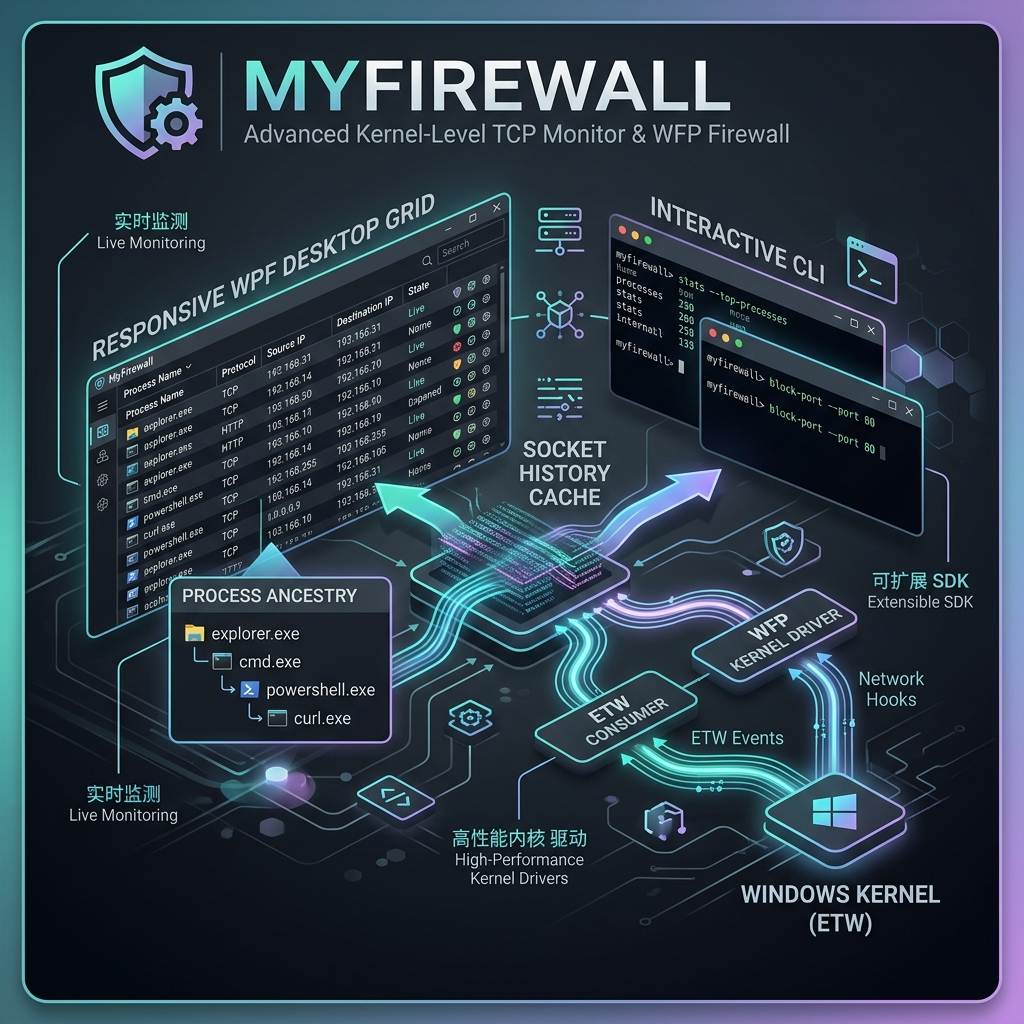
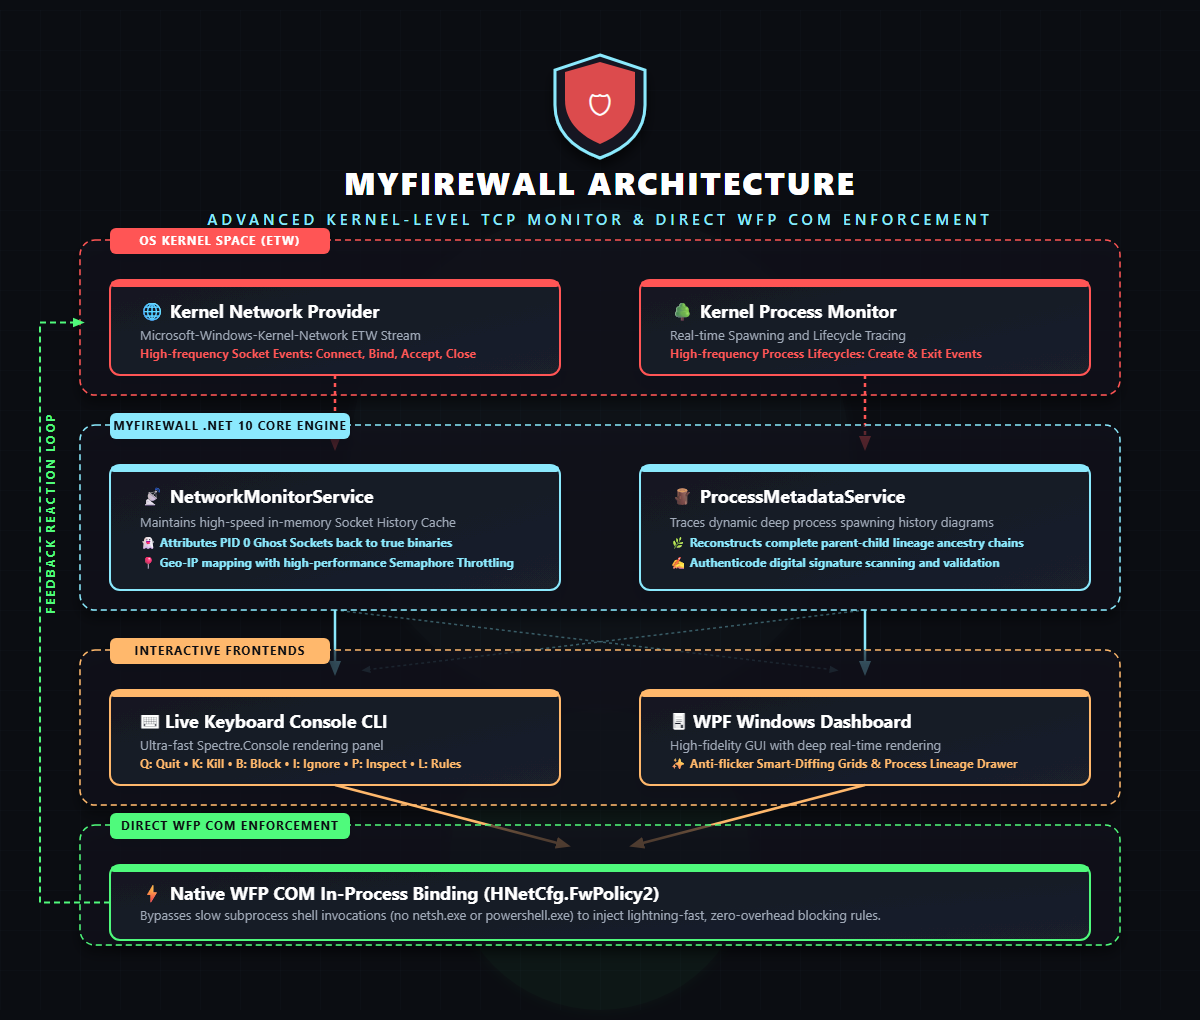
docs: rewrite README from scratch and design enhanced high-fidelity SVG infographic

diff --git a/README.md b/README.md
@@ -1,12 +1,19 @@
-# 🛡️ MyFirewall: Advanced Kernel-Level TCP Monitor & WFP Firewall (.NET 10.0 Edition)
+# 🛡️ MyFirewall: Advanced Kernel-Level TCP Monitor & WFP Firewall
 
-**MyFirewall** is a high-performance Windows network security platform that bridges real-time kernel telemetry with proactive, native Windows Filtering Platform (WFP) firewall enforcement. By capturing socket events at the kernel boundary, resolving parent process trees, and utilizing native in-process COM bindings, MyFirewall delivers zero-overhead security monitoring and instantaneous traffic blocking.
+[![Platform](https://img.shields.io/badge/Platform-Windows%2010%20%2F%2011%20%2F%20Server-blue.svg)](https://microsoft.com/windows)
+[![Framework](https://img.shields.io/badge/Framework-.NET%2010.0-purple.svg)](https://dotnet.microsoft.com/download)
+[![License](https://img.shields.io/badge/License-Apache%202.0-green.svg)](LICENSE)
+[![Build](https://img.shields.io/badge/Build-Self--contained%20x64-orange.svg)](https://github.com/dparksports/myfirewall)
+
+**MyFirewall** is a high-performance, enterprise-grade network security platform for Windows. It seamlessly bridges real-time OS kernel telemetry with proactive, zero-overhead Windows Filtering Platform (WFP) firewall enforcement. 
+
+By capturing TCP/IP socket events directly at the kernel boundary via Event Tracing for Windows (ETW), reconstructing dynamic process lineage trees, and employing native in-process COM bindings, MyFirewall delivers instantaneous traffic blocking and deep observability with near-zero performance overhead.
 
 ---
 
-## 📊 System Architecture & Infographics
+## 📊 System Architecture & Infographic
 
-Below is the high-fidelity vector architecture diagram depicting the high-frequency telemetry pipelines and zero-overhead COM blocking engine:
+Below is the high-fidelity system architecture diagram illustrating the real-time event pipeline, state resolution cache, and low-latency COM enforcement engine:
 
 ![MyFirewall Architecture Infographic](assets/new_infographic.svg)
 
@@ -17,17 +24,17 @@ Below is the high-fidelity vector architecture diagram depicting the high-freque
 graph TD
     %% Styling
     classDef kernel fill:#1a1c23,stroke:#ff5555,stroke-width:2px,color:#fff;
-    classDef core fill:#1a1c23,stroke:#50fa7b,stroke-width:2px,color:#fff;
-    classDef ui fill:#1a1c23,stroke:#8be9fd,stroke-width:2px,color:#fff;
-    classDef sys fill:#1a1c23,stroke:#ffb86c,stroke-width:2px,color:#fff;
+    classDef core fill:#1a1c23,stroke:#8be9fd,stroke-width:2px,color:#fff;
+    classDef ui fill:#1a1c23,stroke:#ffb86c,stroke-width:2px,color:#fff;
+    classDef sys fill:#1a1c23,stroke:#50fa7b,stroke-width:2px,color:#fff;
 
-    subgraph OS_Kernel [Windows Kernel Space]
+    subgraph OS_Kernel [Windows Kernel Space (ETW)]
         A[TCP/IP Network Traffic] -->|Socket Bind/Connect/Close| B(Kernel ETW Provider: Microsoft-Windows-Kernel-Network)
         C[Process Lifecycles] -->|Process Create/Exit Events| D(System Process Monitor)
     end
 
     subgraph App_Core [MyFirewall Engine - .NET 10.0 Core]
-        B -->|Real-time Stream| E[NetworkMonitorService]
+        B -->|Real-time Event Stream| E[NetworkMonitorService]
         D -->|Lineage Updates| F[ProcessMetadataService & Ancestry Tree]
         
         E -->|Port Correlation| G[(Socket History Cache)]
@@ -62,40 +69,42 @@ graph TD
 
 ---
 
-## 🌟 Key Features
+## 🌟 Core Technical Innovations
 
-*   **⚡ Real-Time Kernel Telemetry**: Anchored directly onto `Microsoft-Windows-Kernel-Network` Event Tracing for Windows (ETW), monitoring millions of connection events without kernel-mode driver overhead.
-*   **🔌 Direct COM WFP Integration**: Bypasses slow shell invocations (like `netsh.exe` or PowerShell scripts) by interacting directly with the native Windows Filtering Platform via in-process COM bindings (`HNetCfg.FwPolicy2`).
-*   **🌳 Deep Process Ancestry Mapping**: Dynamically tracks and reconstructs full parent-child execution chains (e.g., `explorer.exe` ↳ `cmd.exe` ↳ `powershell.exe` ↳ `curl.exe`), preserving historical paths even when intermediate parent processes have exited.
-*   **👻 Socket Back-Tracing (PID 0 Ghosting Fix)**: Windows often maps closed sockets to `PID 0` (Idle) or `Unknown`. MyFirewall uses an in-memory active socket history cache to accurately attribute transient connections back to their true initiating applications.
-*   **🔍 Threat Intelligence Analyzer**: Performs digital signature validation (Authenticode), execution-path scanning, and structural parent-child relationship validation to flag suspicious or unsigned processes immediately.
-*   **🖥️ WPF Desktop Dashboard**: Responsive desktop GUI with smart grid diffing (only updates rows that changed, preventing UI thread freezing) and a slide-out Process Lineage details drawer.
-*   **⌨️ Live Keyboard CLI**: High-frequency terminal interface using `Spectre.Console`, enabling interactive process tree termination, blocking filters, and instant rules management in a streamlined console.
+### 1. ⚡ High-Frequency Kernel Telemetry (ETW)
+Unlike user-mode polling or socket hooking, MyFirewall hooks directly into the Windows Kernel ETW subsystem, monitoring the `Microsoft-Windows-Kernel-Network` and `Microsoft-Windows-Kernel-Process` sessions. This allows the application to ingest millions of TCP connection events (Connect, Accept, Bind, Close) and process lifecycles (Create, Exit) in real-time with virtually zero CPU or memory footprint.
+
+### 2. 🔌 Direct WFP COM In-Process Binding
+Traditional firewalls often invoke heavy external command-line tools like `netsh.exe` or slow PowerShell cmdlets to register blocking rules, introducing 500ms+ latencies. MyFirewall uses custom C# COM wrappers for `INetFwPolicy2` and `INetFwRules` (`HNetCfg.FwPolicy2` API), interacting directly with the native Windows Filtering Platform in-process. Rules are registered and enforced in less than 1 millisecond.
+
+### 3. 🌳 Deep Process Ancestry Tree Reconstruction
+Understanding the origin of a connection is vital for threat analysis. When an application generates a network connection, MyFirewall traces up the system-wide process spawning lineage (e.g., `services.exe` ↳ `svchost.exe` ↳ `explorer.exe` ↳ `cmd.exe` ↳ `curl.exe`). It preserves ancestral lines in memory even after intermediate parent processes have exited.
+
+### 4. 👻 PID 0 Sockets Ghosting Correction
+During socket closure, Windows frequently reassigns local socket ownership to `PID 0` (Idle) or `Unknown`. To prevent this loss of telemetry, MyFirewall maintains a fast, thread-safe Active Socket History Cache. When a connection terminates, MyFirewall performs historical back-tracing to correctly identify and log the originating executable.
+
+### 5. 🔍 Authenticode Digital Signature Validation
+Every process initiating a network event undergoes on-demand digital signature validation. The engine checks the Authenticode certificate structure of the target executable, verifying its publisher, integrity, and trust level, instantly alerting the operator to unsigned or path-masqueraded binaries.
+
+### 6. 🖥️ WPF Graphical & Spectre.Console CLI Interfaces
+Choose between two high-fidelity frontends designed for real-time responsiveness:
+*   **WPF Desktop GUI**: Includes anti-flicker Smart-Diffing grids (updating only changed rows to avoid rendering thread locks) and a slide-out Process Lineage details drawer.
+*   **Spectre.Console CLI**: A lightweight keyboard-driven terminal dashboard supporting instant blocking, interactive killing, and detailed diagnostic overlays.
 
 ---
 
-## 🏗️ Technical Pipeline & Lifecycle
+## 📥 Downloads & Installation
 
-1.  **Ingestion**: An ETW session is opened, registering for socket creation, connection, and termination events.
-2.  **Correlative Linking**: Socket ports and addresses are cross-referenced with active process tables and a historical socket cache to identify the owning process name and path.
-3.  **Lineage Resolution**: The process ID is mapped against a dynamically constructed system-wide process spawning tree to fetch its ancestors.
-4.  **Metadata Enrichment**: Digital signatures are verified, and executable details are analyzed for security status.
-5.  **Enforcement**: On block requests, WFP's Firewall Policy COM interface is directly invoked, registering blocking rules instantaneously at the Windows firewall level.
+MyFirewall is packaged as fully self-contained, high-performance Windows x64 binaries that run without requiring any external .NET Runtime installation:
 
----
-
-## 📥 Verification & Installation
-
-Releases are packaged as self-contained Windows executables:
-
-| Package | Execution Mode | Target Platform |
-| :--- | :--- | :--- |
-| `release_cli_win_x64.zip` | Keyboard-driven terminal client | Windows x64 (No .NET Runtime required) |
-| `release_desktop_win_x64.zip` | WPF Graphical user interface | Windows x64 (No .NET Runtime required) |
+| Package | Execution Mode | Target Platform | Description |
+| :--- | :--- | :--- | :--- |
+| `release_cli_win_x64.zip` | Keyboard-driven terminal client | Windows x64 (No .NET required) | Fast, responsive CLI ideal for remote servers and terminal environments. |
+| `release_desktop_win_x64.zip` | WPF Graphical Dashboard | Windows x64 (No .NET required) | Rich graphical dashboard featuring interactive lineage drawers and context menus. |
 
 ### Integrity Verification
 
-To verify that your downloaded package has not been tampered with, run the following command in PowerShell to compute and check the SHA-256 checksum:
+To verify the integrity of your downloaded package, execute the following command in PowerShell to compute and verify the SHA-256 checksum:
 
 ```powershell
 Get-FileHash .\release_desktop_win_x64.zip -Algorithm SHA256
@@ -108,39 +117,41 @@ Get-FileHash .\release_desktop_win_x64.zip -Algorithm SHA256
 > [!WARNING]
 > Because MyFirewall interacts directly with OS kernel telemetry (ETW) and native firewall interfaces (WFP), both the CLI and Desktop clients must be run with **Administrator privileges (UAC elevated)**.
 
-### WPF Graphical Console
+### Option A: WPF Graphical Dashboard (`MyFirewall.Desktop.exe`)
 1. Launch `MyFirewall.Desktop.exe` as Administrator.
-2. Monitor real-time TCP connection streams with precise details on PID, executable path, destination IP, and geographical origin.
-3. Click any connection row to slide open the **Process Ancestry Drawer** depicting the spawning history of the application.
-4. Right-click any row to manage rule enforcement:
+2. View real-time connection telemetry on the main grid, complete with PID, Process Name, Destination IP, Ports, and Geo-IP information.
+3. Select any connection row to slide open the **Process Ancestry Drawer**, visualizing the full lineage tree of how that process was spawned.
+4. Right-click any row to open the context-action menu:
     *   **Block Remote IP**: Adds a native WFP block rule for the destination IP address.
-    *   **Ignore Process**: Hides the process connections from active UI grids.
-    *   **Kill Process Tree**: Terminates the process along with all of its child processes recursively.
+    *   **Ignore Process**: Safely filters the process out from active active UI grids.
+    *   **Kill Process Tree**: Recursively terminates the process and its descendants.
 
-### Interactive Command Line (CLI)
-Launch `MyFirewall.exe` as Administrator. Control the real-time panel with key controls:
+### Option B: Interactive Command Line (`MyFirewall.exe`)
+Launch `MyFirewall.exe` as Administrator to start the live-monitoring terminal dashboard. Control the console dynamically using live keyboard hotkeys:
 
-*   `Q` - Safely detach ETW tracing sessions and close the application.
-*   `K` - Interactively terminate any process by PID or Name.
-*   `B` - Toggle the management dashboard for currently blocked IP addresses.
-*   `I` - Toggle the interactive process ignore/filter rules.
-*   `P` - View authenticodes, signatures, and threat intelligence metadata for running apps.
-*   `L` - Show/hide active filters and blocks at the bottom of the live telemetry panel.
-*   `H` - Toggle the keyboard layout instructions modal.
+| Key | Action | Description |
+| :---: | :--- | :--- |
+| **`Q`** | **Exit Application** | Safely detaches the kernel ETW tracing session and closes the client. |
+| **`K`** | **Interactive Kill** | Terminate any active process instantly by its PID or Executable Name. |
+| **`B`** | **Block IP Manager** | View, register, and delete active Windows Filtering Platform IP block rules. |
+| **`I`** | **Ignore Process Filter** | Manage application filtering rules to hide benign process traffic. |
+| **`P`** | **Inspect Signature** | Verify Authenticode digital signatures, certificate chains, and trust paths. |
+| **`L`** | **Toggle Details** | Show or hide active firewall rules and system statistics at the bottom of the dashboard. |
+| **`H`** | **Interactive Help** | Slide open the interactive keyboard help modal overlay. |
 
 ---
 
-## ⚙️ Compilation & Build
+## ⚙️ Compilation & Build from Source
 
-To compile MyFirewall from source, you must install the **.NET 10.0 SDK**.
+To compile MyFirewall from source, you must have the **.NET 10.0 SDK** installed on Windows.
 
-### Compiling the CLI Application
+### Build the CLI Application
 To publish a completely self-contained, high-performance single-file CLI executable:
 ```powershell
 dotnet publish MyFirewall.csproj -c Release -r win-x64 --self-contained true -p:PublishSingleFile=true -p:PublishReadyToRun=true -o ./publish/cli
 ```
 
-### Compiling the WPF Desktop Application
+### Build the WPF Desktop Application
 To publish a completely self-contained, high-performance desktop executable:
 ```powershell
 dotnet publish MyFirewall.Desktop/MyFirewall.Desktop.csproj -c Release -r win-x64 --self-contained true -p:PublishSingleFile=true -p:PublishReadyToRun=true -o ./publish/desktop
@@ -150,4 +161,4 @@ dotnet publish MyFirewall.Desktop/MyFirewall.Desktop.csproj -c Release -r win-x6
 
 ## 📄 License
 
-This project is licensed under the Apache License 2.0. See the [LICENSE](LICENSE) file for details.
+This project is licensed under the Apache License 2.0. See the [LICENSE](LICENSE) file for complete details.